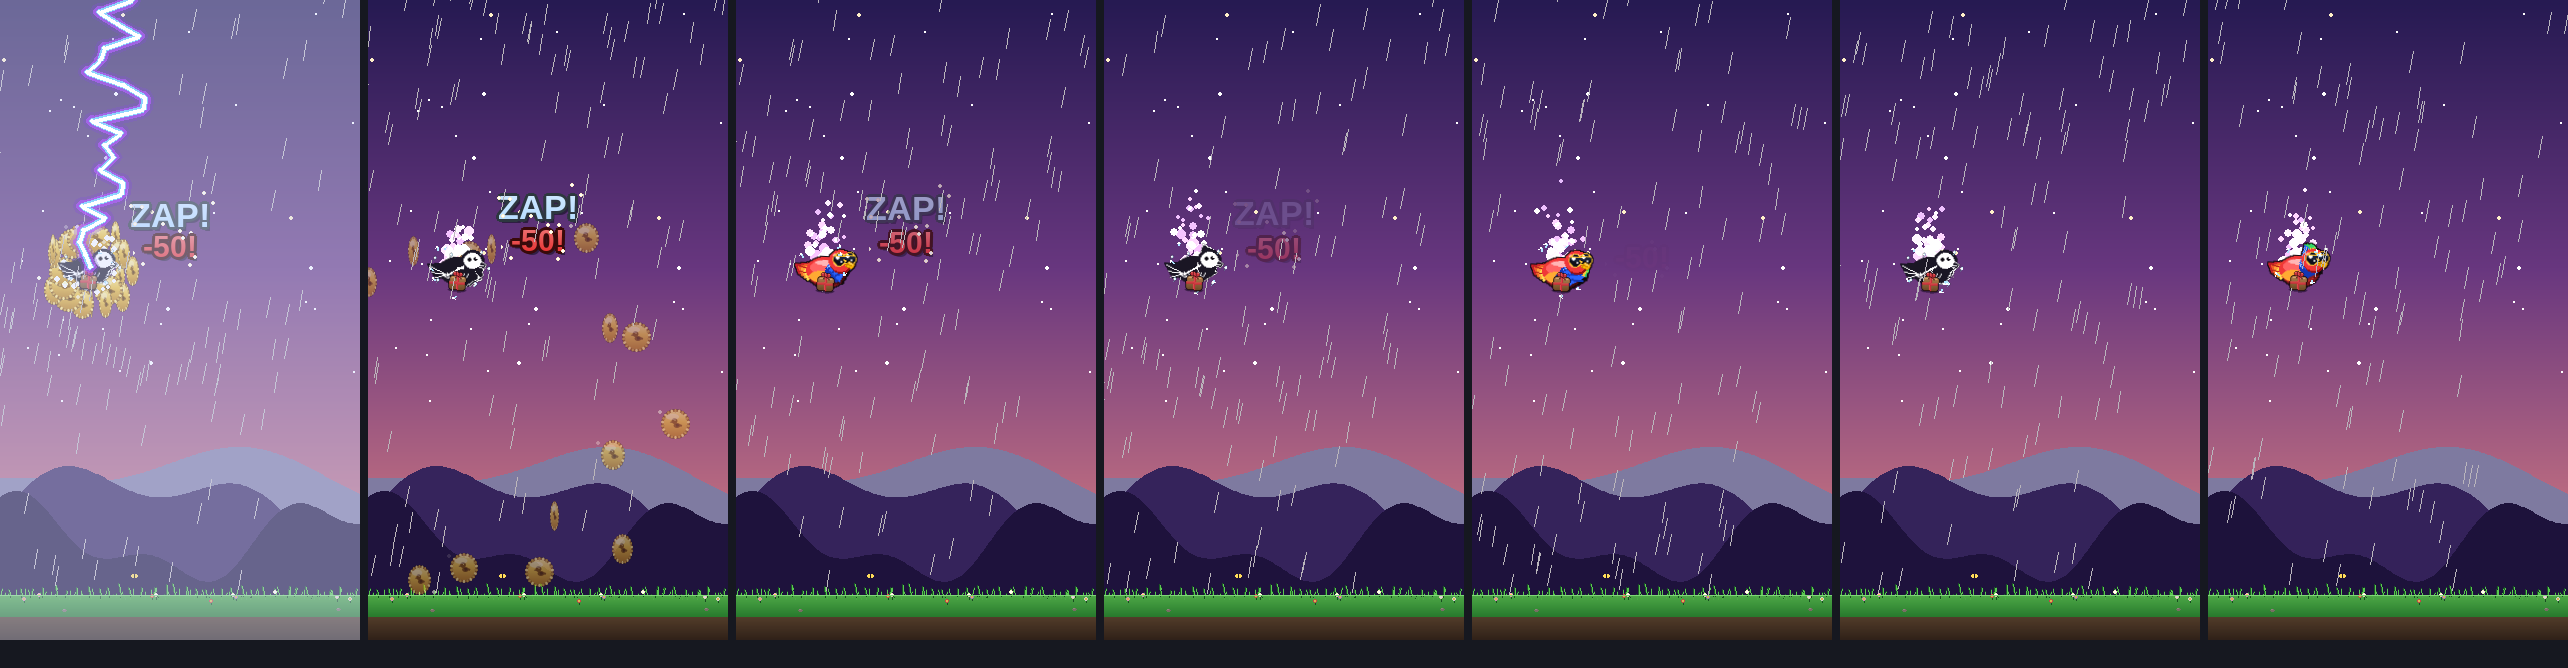
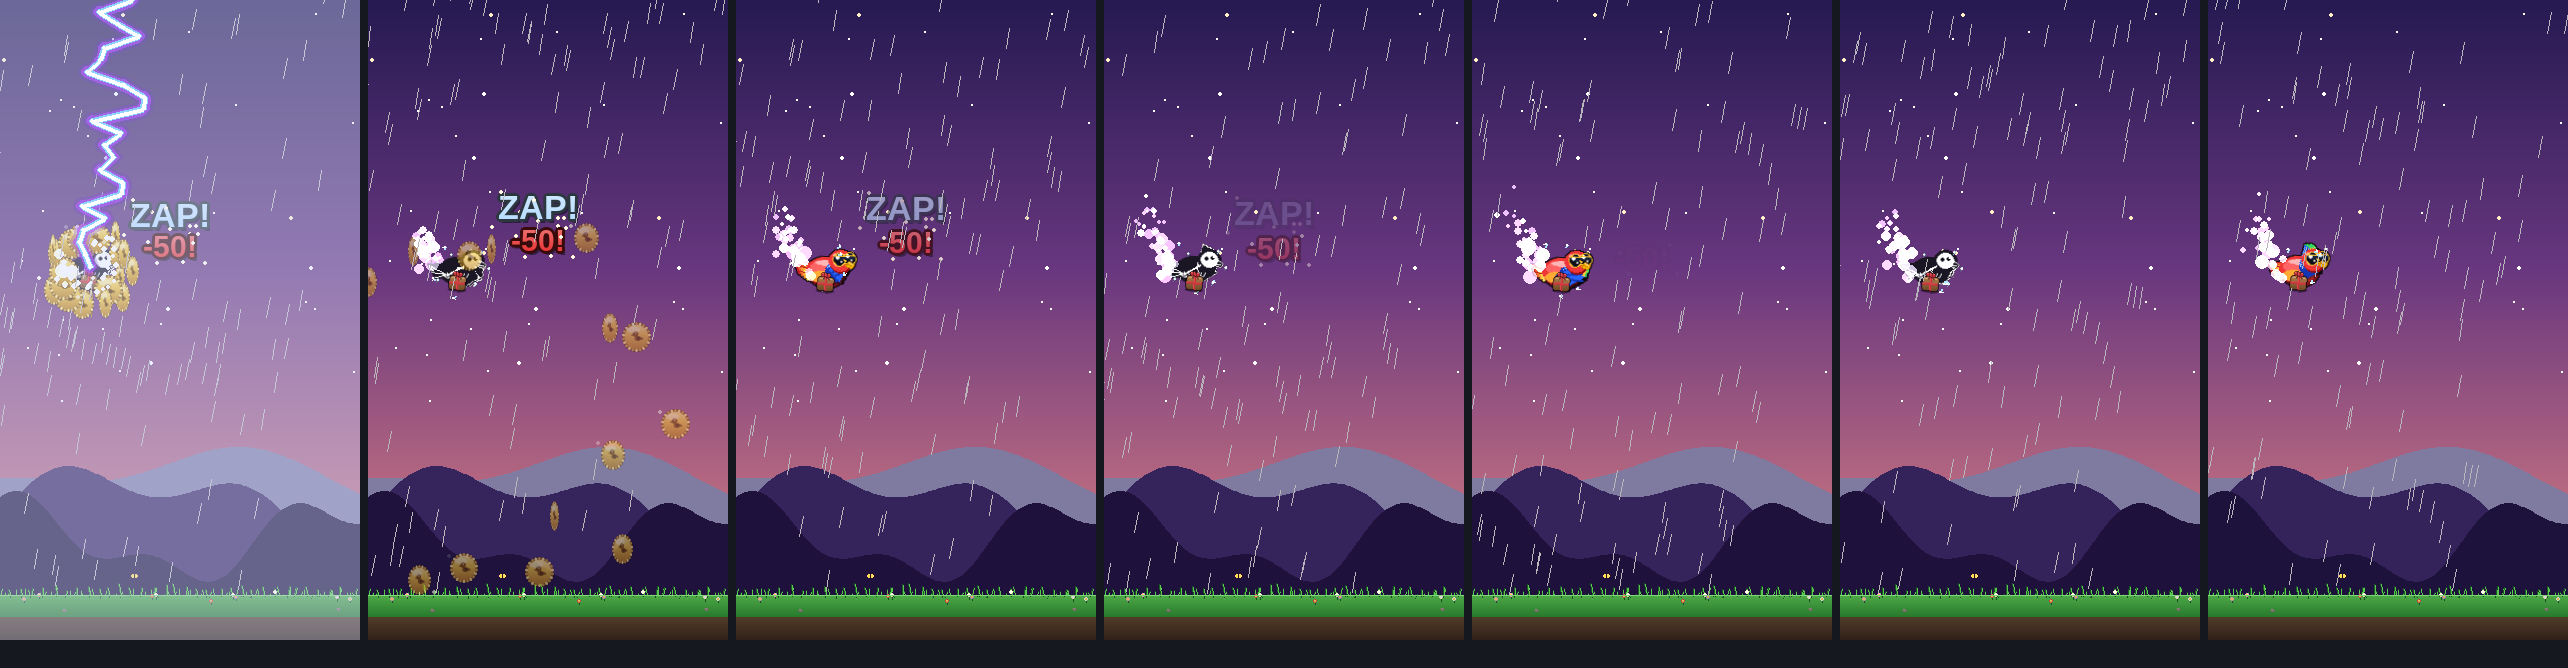
lightning: scorch wisps trail behind Pip instead of covering him
The X-Ray Sparks skeleton view was being obscured by the white-grey
scorch smoke that spawns 40×/s for 2.5 s after the strike: wisps
were spawned at Pip's centre (ox/oy ∈ ±12/±8) with mostly upward
velocity, and scenes.py renders particles AFTER the bird sprite,
so the puffs layered on top of the skeleton silhouette and hid the
bones during the very flicker the user wanted to see.

_spawn_scorch_wisp now spawns wisps in Pip's WAKE — to his LEFT
(behind him, since he flies right) and drifting further LEFT plus
gently upward:
  ox: ±12 → -32..-14   (strictly behind his sprite)
  oy: ±8  → -18..+12   (slight vertical spread)
  vx: ±18 → -40..-10   (drift away to the left)
  vy: -70..-35 → -55..-25 (gentler rise so the trail lingers)

Net effect: the smoke streams away behind Pip like a comet tail,
never spawning on or in front of his sprite, so the skeleton
flicker stays completely unobstructed for the full 2.3 s flash.
Same wisp colours, count, and life — only the spawn geometry +
velocity vector changed.

Tests: 22/22 pass.

diff --git a/game/world.py b/game/world.py
@@ -1785,18 +1785,23 @@ class World:
             pass
 
     def _spawn_scorch_wisp(self):
-        """Larger dark smoke puff drifting up off Pip's silhouette.
-        Used by the scorched sub-state after a lightning strike;
-        fades out as `_lightning_scorch_t` decays. Sized + coloured
-        to read clearly against the storm sky."""
+        """Smoke puff trailing BEHIND Pip in his wake — spawned to his
+        left (he flies right, so left = behind) and drifting further
+        left + upward so the wisps stream away from him rather than
+        covering his body. Critical for the X-Ray Sparks skeleton
+        flicker — `scenes.py` draws particles AFTER the bird sprite,
+        so any wisp that originates on Pip's silhouette would layer
+        over the skeleton view and hide it."""
         bx, by = self.bird.x, self.bird.y
-        # Slight random offset so wisps come off Pip's body and tail,
-        # not just his centre.
-        ox = random.uniform(-12, 12)
-        oy = random.uniform(-8, 8)
-        # Bias upward — wisps rise. Speed is slow so the trail lingers.
-        vx = random.uniform(-18, 18)
-        vy = random.uniform(-70, -35)
+        # Behind-and-around Pip (to his LEFT, with a small vertical
+        # spread). Never spawn on his right-facing body where the
+        # skeleton view shows.
+        ox = random.uniform(-32, -14)
+        oy = random.uniform(-18, 12)
+        # Drift further LEFT (behind) and gently upward so the trail
+        # streams away from Pip rather than rising over him.
+        vx = random.uniform(-40, -10)
+        vy = random.uniform(-55, -25)
         # Light grey / cream wisps so they CONTRAST with the dark
         # storm sky. Real smoke off something scorched would be sooty
         # but visually the lighter palette reads as a smoke trail
